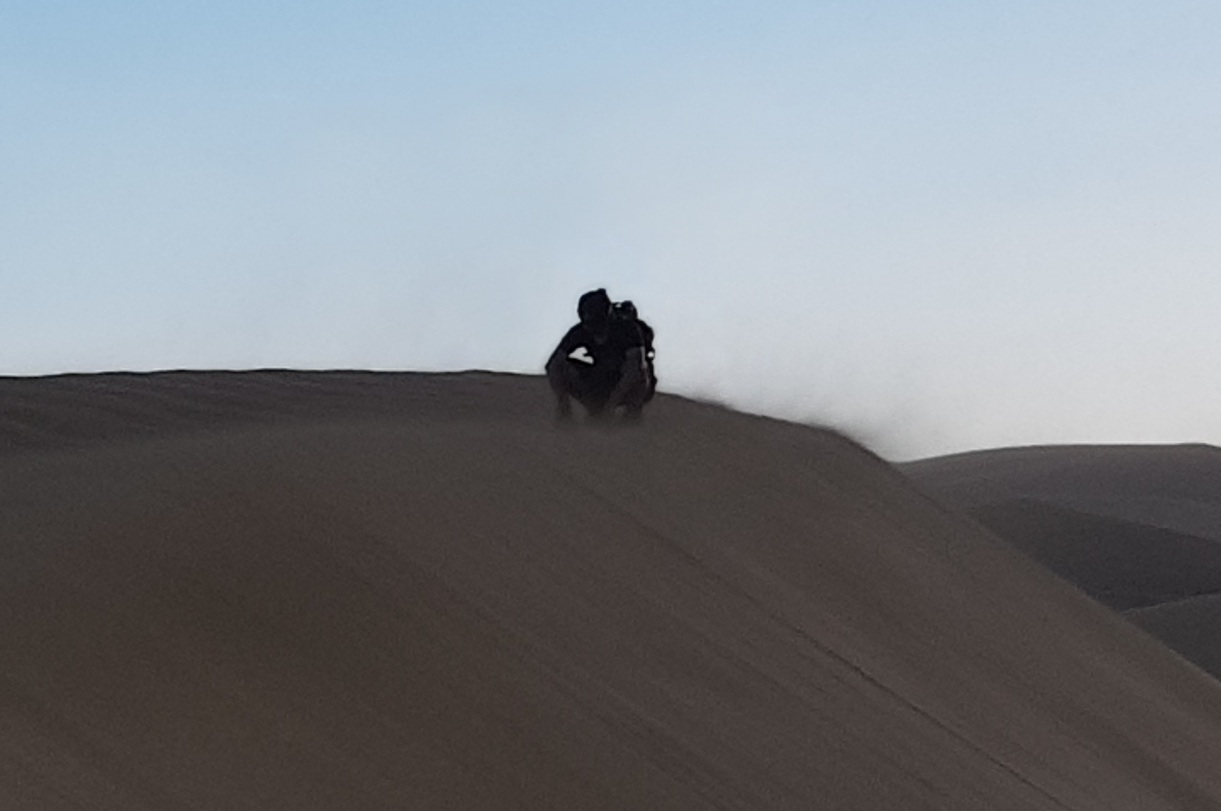
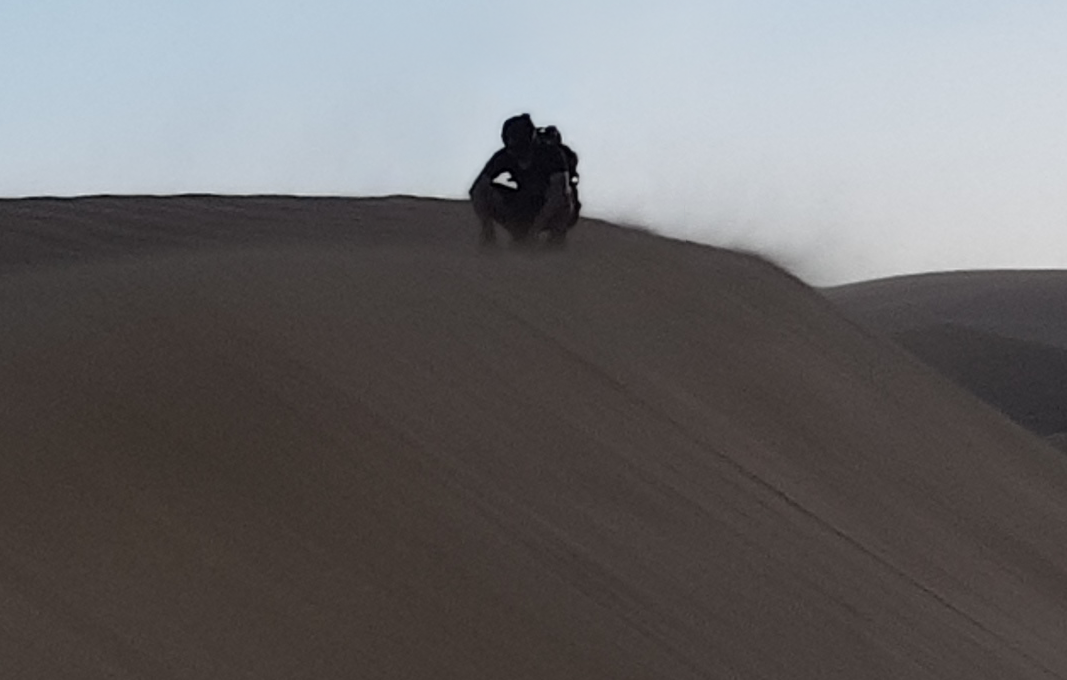
added titles to work pages
- added titles to work pages
- changed text colors
- moved desert pic up higher

diff --git a/works-details2.html b/works-details2.html
@@ -118,7 +118,7 @@
 
                             	<header role="work-title">
 
-                                	<h2>Project Name</h2>
+                                	<h2>Kingdom of Yokai</h2>
 
                                     <a href="#">Visit online <i class="fa fa-external-link" aria-hidden="true"></i></a>
 
@@ -138,7 +138,7 @@
 
                                     <p><strong>Role</strong><br/>
 
-									Branding, Identity, Web Design, UX / UI</p>
+									Game Designer & Lead Artist</p>
 
                                 </section>
 
@@ -160,9 +160,9 @@
                                     <iframe class="img-responsive" src="https://www.youtube.com/embed/ZIK_3qTA8Xo" title="YouTube video player" frameborder="0" allow="accelerometer; autoplay; clipboard-write; encrypted-media; gyroscope; picture-in-picture; web-share" allowfullscreen></iframe></div>
                                 </li>
 
-                                <li><img src="images/work/works-image-2.jpg" alt="" class="img-responsive"/></li>
+                                <li><img src="" alt="" class="img-responsive"/></li>
 
-                                <li><img src="images/work/works-image-3.jpg" alt="" class="img-responsive"/></li>
+                                <li><img src="" alt="" class="img-responsive"/></li>
 
                             </ul>
 

diff --git a/works-details3.html b/works-details3.html
@@ -118,7 +118,7 @@
 
                             	<header role="work-title">
 
-                                	<h2>Project Name</h2>
+                                	<h2>Future XR Museum</h2>
 
                                     <a href="#">Visit online <i class="fa fa-external-link" aria-hidden="true"></i></a>
 
@@ -156,11 +156,11 @@
 
                             <ul class="grid-lod effect-2" id="grid">
 
-                                <li><img src="images/work/works-image-1.jpg" alt="" class="img-responsive"/></li>
+                                <li><img src="images/home-images/XR museum.gif" alt="" class="img-responsive"/></li>
 
-                                <li><img src="images/work/works-image-2.jpg" alt="" class="img-responsive"/></li>
+                                <li><img src="" alt="" class="img-responsive"/></li>
 
-                                <li><img src="images/work/works-image-3.jpg" alt="" class="img-responsive"/></li>
+                                <li><img src="" alt="" class="img-responsive"/></li>
 
                             </ul>
 

diff --git a/css/style.css b/css/style.css
@@ -254,7 +254,7 @@ main[role="main-home-wrapper"] article[role="pge-title-content"],main[role="main
 
 main[role="main-home-wrapper"] article[role="pge-title-content"] header,main[role="main-inner-wrapper"] article[role="pge-title-content"] header{ padding-bottom:19px; padding-top:83px}
 /*subtitle color*/
-main[role="main-home-wrapper"] article[role="pge-title-content"] header h2,main[role="main-inner-wrapper"] article[role="pge-title-content"] header h2{ font-size:46px; line-height:53px; color:#849494; font-weight:800}
+main[role="main-home-wrapper"] article[role="pge-title-content"] header h2,main[role="main-inner-wrapper"] article[role="pge-title-content"] header h2{ font-size:46px; line-height:53px; color:hsl(197, 30%, 69%); font-weight:800}
 /*main title color*/
 main[role="main-home-wrapper"] article[role="pge-title-content"] header h2 span,main[role="main-inner-wrapper"] article[role="pge-title-content"] header h2 span{ display:block; font-size:80px; color:#60d2ff; padding-bottom:15px}
 /*main text color*/

diff --git a/css/bootstrap.min.css b/css/bootstrap.min.css
@@ -1365,13 +1365,14 @@ html {
     -webkit-tap-highlight-color: rgba(0, 0, 0, 0)
 }
 
+/*change work text color*/
 /*change background color*/
 body {
     font-family: 'Open Sans', sans-serif;
     font-weight: 400;
     font-size: 13px;
     line-height: 1.42857143;
-    color: #353535;
+    color: #c2c2c2;
     background-color: #1d1d1d
 }
 

diff --git a/works-details4.html b/works-details4.html
@@ -118,7 +118,7 @@
 
                             	<header role="work-title">
 
-                                	<h2>Project Name</h2>
+                                	<h2>Flink's sustainable drone intervention</h2>
 
                                     <a href="#">Visit online <i class="fa fa-external-link" aria-hidden="true"></i></a>
 

diff --git a/works-details5.html b/works-details5.html
@@ -118,7 +118,7 @@
 
                             	<header role="work-title">
 
-                                	<h2>Project Name</h2>
+                                	<h2>"TakeATask" UX/UI design</h2>
 
                                     <a href="#">Visit online <i class="fa fa-external-link" aria-hidden="true"></i></a>
 

diff --git a/works-details1.html b/works-details1.html
@@ -118,7 +118,7 @@
 
                             	<header role="work-title">
 
-                                	<h2>Project Name</h2>
+                                	<h2>Spaceship Concept</h2>
 
                                     <a href="#">Visit online <i class="fa fa-external-link" aria-hidden="true"></i></a>
 

diff --git a/works-details6.html b/works-details6.html
@@ -118,7 +118,7 @@
 
                             	<header role="work-title">
 
-                                	<h2>Project Name</h2>
+                                	<h2>Continentum Light</h2>
 
                                     <a href="#">Visit online <i class="fa fa-external-link" aria-hidden="true"></i></a>
 

diff --git a/index.html b/index.html
@@ -187,7 +187,7 @@
 
                                 <figcaption>
    
-                                   <h2>Future of XR <span>Museum</span></h2>
+                                   <h2>Future XR <span>Museum</span></h2>
    
                                    <p>Gravity Sketch Student Ambassador Program</p>
    

diff --git a/works-details8.html b/works-details8.html
@@ -118,7 +118,7 @@
 
                             	<header role="work-title">
 
-                                	<h2>Project Name</h2>
+                                	<h2>3D Models</h2>
 
                                     <a href="#">Visit online <i class="fa fa-external-link" aria-hidden="true"></i></a>
 

diff --git a/works-details7.html b/works-details7.html
@@ -118,7 +118,7 @@
 
                             	<header role="work-title">
 
-                                	<h2>Project Name</h2>
+                                	<h2>Sketches</h2>
 
                                     <a href="#">Visit online <i class="fa fa-external-link" aria-hidden="true"></i></a>
 
